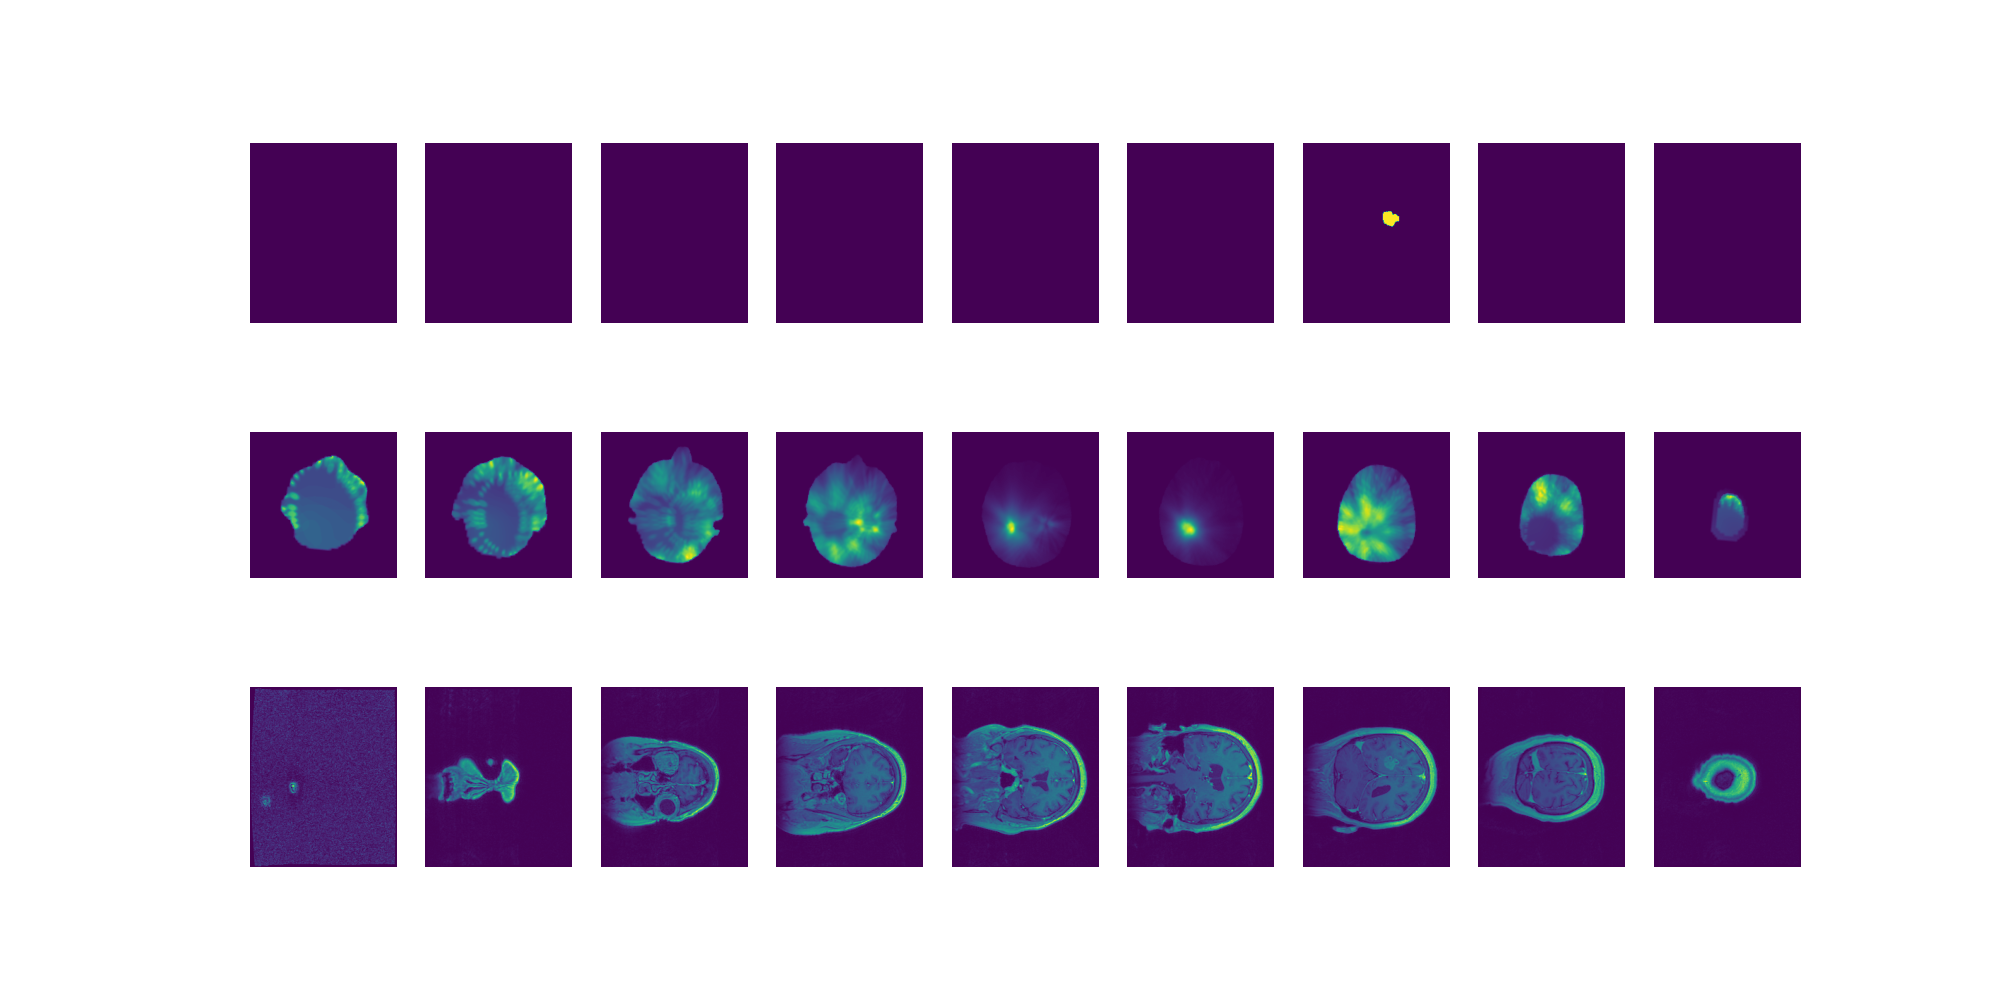
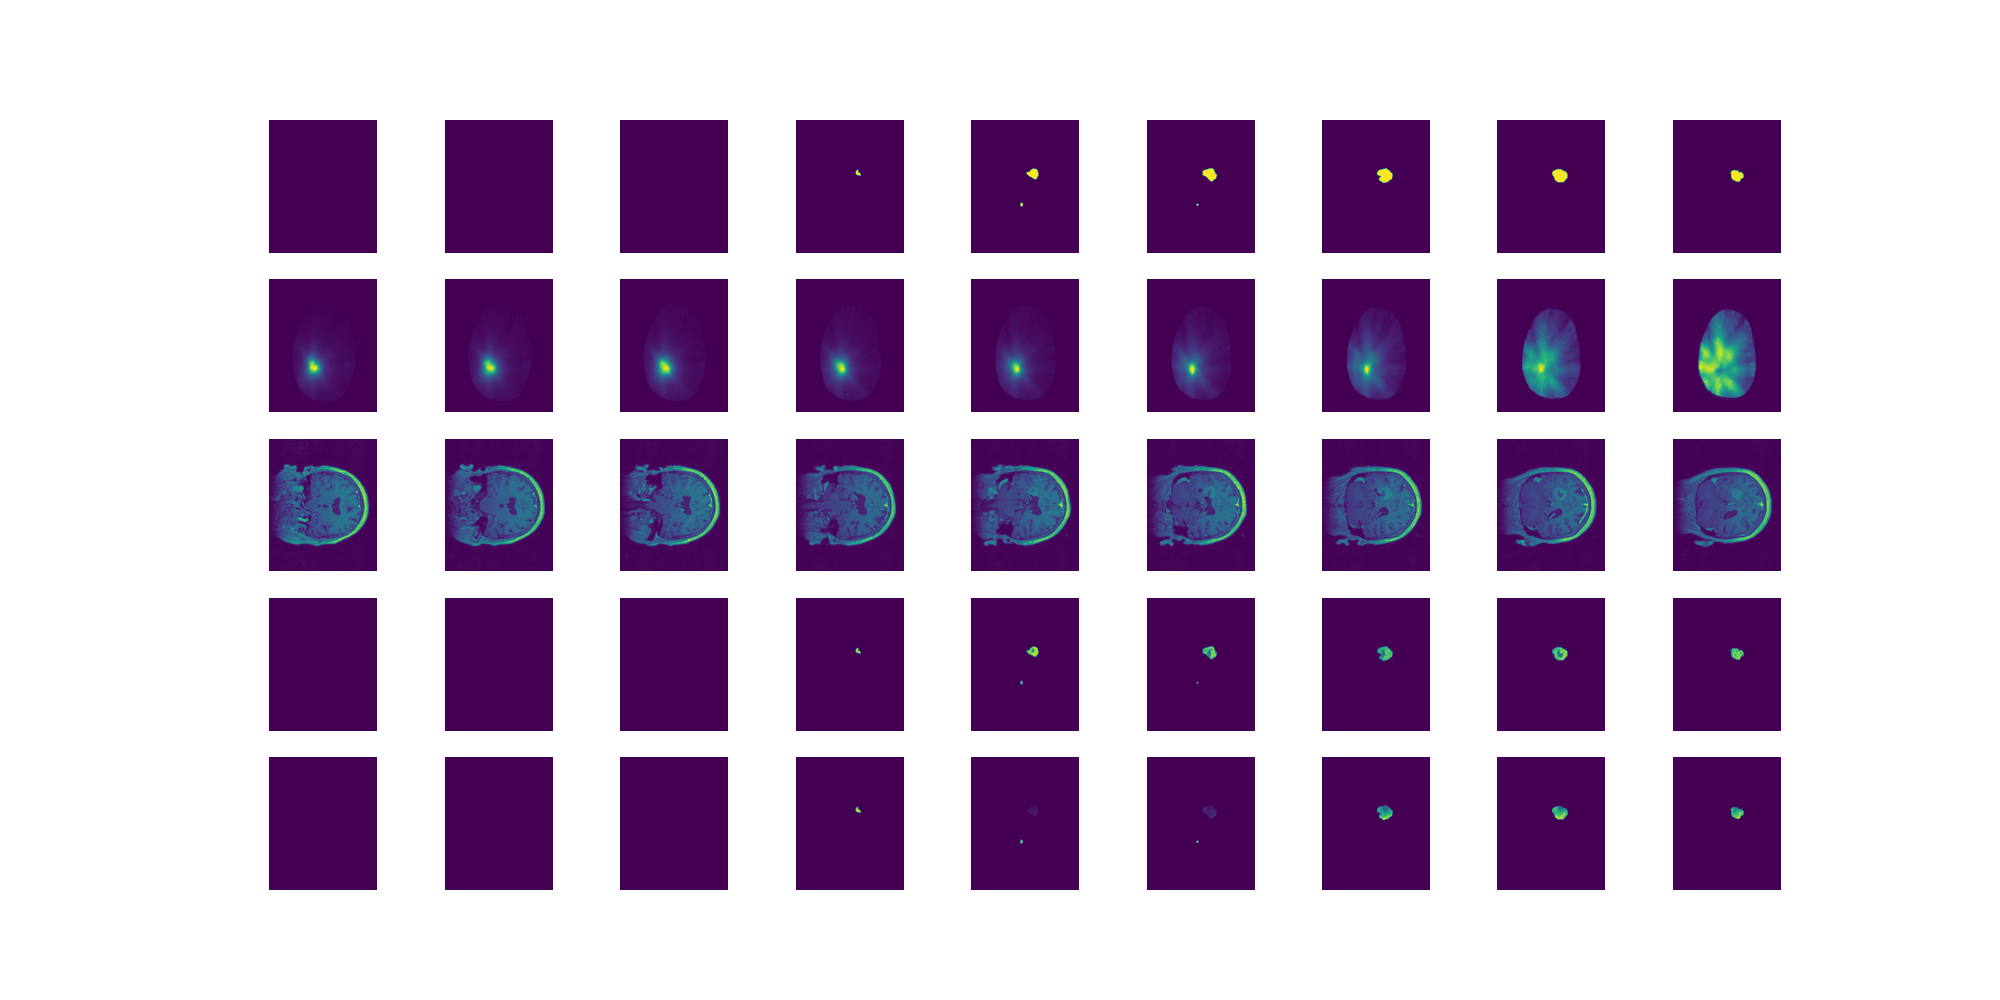
first preprocessing version complete

Changed region(s): [[0.124, 0.093, 0.899, 0.899]]

diff --git a/read_dataset.py b/read_dataset.py
@@ -6,140 +6,104 @@ import pydicom
 from rt_utils import RTStructBuilder
 import logging
 import shutil
-DATA_DIRECTORY = '../descriptive'
+import skimage
+from scipy.ndimage import zoom
+
+
+DATA_DIRECTORY = os.path.join('..', 'descriptive')
 METADATA_PATH = os.path.join(DATA_DIRECTORY, 'metadata.csv')
-OUTPUT = '../data'
+OUTPUT = os.path.join('..', 'data')
 
-logger = logging.getLogger(__name__)
-logger.setLevel(logging.DEBUG)
-console_handler = logging.StreamHandler() 
-logger.addHandler(console_handler)
-
-def resample_rtdose_to_mri(rtdose, mri):
-    dose_grid = rtdose.pixel_array
-    dose_grid_scaling = rtdose.DoseGridScaling
-    dose_origin = rtdose.ImagePositionPatient  # in mm
-    dose_orientation = rtdose.ImageOrientationPatient
-    dose_pixel_spacing = rtdose.PixelSpacing  # in mm/pixel
-    dose_slice_thickness = rtdose.SliceThickness  # in mm
-
-    mri_origin = mri.ImagePositionPatient
-    mri_orientation = mri.ImageOrientationPatient
-    mri_pixel_spacing = mri.PixelSpacing
-    mri_slice_thickness = mri.SliceThickness
-
-    # Construct coordinate arrays for the RTDOSE grid
-    dose_shape = dose_grid.shape
-
-    # ... Construct dose_coords: 3D coordinates of the RTDOSE grid points (x, y, z) ...
-    # (Implementation depends on the specifics of your DICOM files and coordinate systems.
-    # You might need to consider slice orientation, direction cosines, etc.)
-
-    # Calculate the transformation matrix (consider using a specialized library)
-    # ... transform_matrix = calculate_transformation(dose_origin, dose_orientation, dose_pixel_spacing, dose_slice_thickness,
-    #                                                 mri_origin, mri_orientation, mri_pixel_spacing, mri_slice_thickness)
-
-    # Map dose_coords to the MRI space using the transformation matrix
-    mri_coords = transform_matrix @ dose_coords
-
-    # Resample the RTDOSE using interpolation (e.g., linear)
-    resampled_dose = map_coordinates(dose_grid * dose_grid_scaling, mri_coords, order=1, mode='nearest')
-
-    # Reshape the resampled dose to match the MRI shape
-    resampled_dose = resampled_dose.reshape(mri.pixel_array.shape)
-    return resampled_dose
+def handle_MR_RTD(path_MR, path_RTD, dir_name): 
+    #MR dicoms
+    file_names_MR = [os.path.join(path_MR, f) for f in os.listdir(path_MR) if f.endswith('.dcm')]        
+    mr_data = [pydicom.dcmread(p) for p in file_names_MR] 
+    mr_pixel_data = [p.pixel_array for p in mr_data] 
+    
+    RefDs = mr_data[0]
+    
+    # print(f"MR io: {RefDs.ImageOrientationPatient}") 
+    
+    ConstPixelDims = (int(RefDs.Rows), int(RefDs.Columns), len(file_names_MR))
+    ArrayDicom =  np.empty(ConstPixelDims, dtype=RefDs.pixel_array.dtype)
+    for i, pa in enumerate(mr_pixel_data):
+        ArrayDicom[:, :, i] = pa
+    
+    
+    #RTD dicom  
+    file_path_RTD  = [os.path.join(path_RTD, f) for f in os.listdir(path_RTD) if f.endswith('.dcm')][0]
+    rtdose_array = pydicom.dcmread(file_path_RTD).pixel_array
+    
+    # print(f"RTD io: {pydicom.dcmread(file_path_RTD).ImageOrientationPatient}")
+    
+    target_shape = ArrayDicom.shape
+    original_shape = rtdose_array.shape
+    factor = (target_shape[0]/original_shape[0], target_shape[1]/original_shape[1], target_shape[2]/original_shape[2])
+    
+    mapped_dose = zoom(rtdose_array, factor)
+    
+    # print(f"rtdose_data shape: {rtdose_array.shape}") 
+    # print(f"mapped_dose shape: {mapped_dose.shape}")
+    # print(f"array dicom shape: {ArrayDicom.shape}")
+    
+    np.save(os.path.join(OUTPUT, dir_name, f"{dir_name}_RTD.npy"), mapped_dose) 
+    np.save(os.path.join(OUTPUT, dir_name, f"{dir_name}_MR.npy"), ArrayDicom)
+    
+    return (ArrayDicom, mapped_dose)
 
 def save_dcm_to_npy():
     metadata_by_subjectid = pd.read_csv(METADATA_PATH).groupby(['Subject ID'])
+    count = 0
     print("Saving dcm to npy...")
+    print(f"\r0/76", end='')
     for (subject_id, values) in metadata_by_subjectid:
         metadata_by_studyuid = values.groupby(["Study UID"])
-        
         subject_id=subject_id[0]
         for (study_uid, values) in metadata_by_studyuid:
             study_uid = study_uid[0]
             dir_name = f"{subject_id}_{study_uid}"
-            os.mkdir(os.path.join(OUTPUT, dir_name))
-            values.sort_values(by='Modality', inplace=True)
-            series_path = ''
-            for i, r in values.iterrows():
-                path = os.path.join(DATA_DIRECTORY, r['File Location'])
-                #MR IMAGE
-                if r['Modality'] == 'MR':    
-                    series_path = path
-                    save_MR_npy(path, dir_name)
-                #RADIATION DOSE ON LESION
-                elif r['Modality'] == 'RTDOSE' :
-                    save_RTD_npy(path, dir_name)
-                #LESION MARKED
-                elif r['Modality'] == 'RTSTRUCT':
-                    save_RTS_npy(path, dir_name, series_path)
-                else:
-                    logger.debug("This modality shouldn't exist: " + r['Modality'])
+            os.makedirs(os.path.join(OUTPUT, dir_name), exist_ok=True)
+            values.sort_values(by='Study Date', inplace=True)
             
-            crop_lesions(dir_name)      
+            path_MR = os.path.join(DATA_DIRECTORY, values.loc[values["Modality"] == "MR", "File Location"].iloc[0])
+            path_RTD = os.path.join(DATA_DIRECTORY, values.loc[values["Modality"] == "RTDOSE", "File Location"].iloc[0])
+            path_RTS = os.path.join(DATA_DIRECTORY, values.loc[values["Modality"] == "RTSTRUCT", "File Location"].iloc[0])
+                        
+            (MR, RTD) = handle_MR_RTD(path_MR, path_RTD, dir_name)
             
-            print(f"\rsave_dcm_to_npy: {subject_id} done", end='')
+            RTS = handle_RTS_npy(path_RTS, dir_name, path_MR)
+            
+            crop_and_save(MR, RTD, RTS, dir_name)      
+            
+            count +=1
+            
+            print(f"\r{count}/76", end='')
     
     print("\ndone\n")
 
-def save_MR_npy(files_path: str, dir_name:str):
-    list_files_DCM = []
-    for file_name in os.listdir(files_path):
-        if file_name.endswith('.dcm'):
-            list_files_DCM.append(os.path.join(files_path, file_name))
-            RefDs = dicom.read_file(list_files_DCM[0])
-            ConstPixelDims = (int(RefDs.Rows), int(RefDs.Columns), len(list_files_DCM))
-            ArrayDicom = np.zeros(ConstPixelDims, dtype=RefDs.pixel_array.dtype)
-            for filenameDCM in list_files_DCM:
-                ds = dicom.read_file(filenameDCM)
-                ArrayDicom[:, :, list_files_DCM.index(filenameDCM)] = ds.pixel_array
-            np.save(os.path.join(OUTPUT, dir_name, f"{dir_name}_MR.npy"), ArrayDicom)
+def handle_RTS_npy(path_RTS, dir_name, series_path):
+    rt_struct_path = [os.path.join(path_RTS, f) for f in os.listdir(path_RTS) if f.endswith('.dcm')][0]
+    rtstruct = RTStructBuilder.create_from(dicom_series_path=series_path, rt_struct_path=rt_struct_path)
+    names = rtstruct.get_roi_names()
+    masks = []
+    for name in names:
+        if "Skull" not in name: # exclude skull annotations
+            mask_3d = rtstruct.get_roi_mask_by_name(name)
+            masks.append(mask_3d * 1)
+    
+    combined_mask = np.logical_or.reduce(masks).astype(np.uint8)
+    np.save(os.path.join(OUTPUT, dir_name, f"{dir_name}_RTS.npy"), combined_mask)
+    return combined_mask
             
-def save_RTS_npy(file_path:str, dir_name, series_path):
-    for file_name in os.listdir(file_path):
-        if file_name.endswith('.dcm'):
-            rt_struct_path = os.path.join(file_path, file_name)
-            rtstruct = RTStructBuilder.create_from(dicom_series_path=series_path, rt_struct_path=rt_struct_path)
-            names = rtstruct.get_roi_names()
-            masks = []
-            for name in names:
-                if "Skull" not in name: # exclude skull annotations
-                    mask_3d = rtstruct.get_roi_mask_by_name(name)
-                    masks.append(mask_3d * 1)
-            
-            combined_mask = np.logical_or.reduce(masks).astype(np.uint8)                      
-            np.save(os.path.join(OUTPUT, dir_name,  f"{dir_name}_RTS.npy"), combined_mask)
-
-def save_RTD_npy(file_path: str, dir_name):
-    for file_name in os.listdir(file_path):
-        if file_name.endswith('.dcm'):
-            rtdose_struct_path = os.path.join(file_path, file_name) 
-            ds = pydicom.dcmread(rtdose_struct_path)
-
-            dose_grid = ds.pixel_array * ds.DoseGridScaling  # Get dose data with scaling
-            # dose_spacing = [float(x) for x in ds.PixelSpacing] + [float(ds.SliceThickness)]  # X, Y, Z spacing
-            # image_position_patient = ds.ImagePositionPatient  # Optional: Image position
-
-            # *** Step 3: Create a NumPy array ***
-            rtdose_array = np.array(dose_grid)
-
-            # If necessary, reshape the array based on the number of frames:
-            if rtdose_array.ndim == 4:  # Check if there are multiple frames
-                num_frames = ds.NumberOfFrames 
-                rtdose_array = rtdose_array.reshape(num_frames, *rtdose_array.shape[1:])  
-                
-            np.save(os.path.join(OUTPUT, dir_name, f"{dir_name}_RTD.npy"), rtdose_array)
-            
-def crop_lesions(dir_name:str):   
-    MR_path = os.path.join(OUTPUT, dir_name, f"{dir_name}_MR.npy")
-    RTS_path = os.path.join(OUTPUT, dir_name, f"{dir_name}_RTS.npy")
-    MR_arr = np.load(MR_path)
-    LES_mask_arr = np.load(RTS_path)
-    LES_arr = LES_mask_arr * MR_arr
-    LES_arr_cropped = crop_les(LES_arr)
-    np.save(os.path.join(OUTPUT, dir_name, f"{dir_name}_LES.npy"), LES_arr)
-    np.save(os.path.join(OUTPUT, dir_name, f"{dir_name}_LESc.npy"), LES_arr_cropped)
+def crop_and_save(MR, RTD, RTS, dir_name):   
+    MR_les = RTS * MR
+    MR_les_cropped = crop_les(MR_les)
+    RTD_les = RTS * RTD
+    RTD_les_cropped = crop_les(RTD_les)
+    np.save(os.path.join(OUTPUT, dir_name, f"{dir_name}_MR_les.npy"), MR_les)
+    np.save(os.path.join(OUTPUT, dir_name, f"{dir_name}_MR_lesc.npy"), MR_les_cropped)
+    np.save(os.path.join(OUTPUT, dir_name, f"{dir_name}_RTD_les.npy"), RTD_les)
+    np.save(os.path.join(OUTPUT, dir_name, f"{dir_name}_RTD_lesc.npy"), RTD_les_cropped)
 
 def crop_les(d):
     true_points = np.argwhere(d)

diff --git a/display_data.py b/display_data.py
@@ -11,27 +11,45 @@ def display(plt, axes, images, cur_row, c, f_type):
 def display_data(folder_path:str):
     files = [f for f in os.listdir(folder_path)]
     
-    RTD_file = [f for f in files if "RTD" in f][0]
-    MR_file = [f for f in files if "MR" in f][0]
-    RTS_file = [f for f in files if "RTS" in f][1]
+    RTD_file = [f for f in files if f.endswith("RTD.npy")][0]
+    MR_file = [f for f in files if f.endswith("MR.npy")][0]
+    RTS_file = [f for f in files if f.endswith("RTS.npy")][0]
+    MR_les_file = [f for f in files if f.endswith("MR_les.npy")][0]
+    RTD_les_file = [f for f in files if f.endswith("RTD_les.npy")][0]
     
     RTD_array = np.load(os.path.join(folder_path, RTD_file))
     MR_array = np.load(os.path.join(folder_path, MR_file))
     RTS_array = np.load(os.path.join(folder_path, RTS_file))
-    
-    r,c = 3, 9
+    RTD_les_array = np.load(os.path.join(folder_path, RTD_les_file))
+    MR_les_array = np.load(os.path.join(folder_path, MR_les_file))
+    r,c = 5, 9
 
 # Create the figure and subplots
     fig, axes = plt.subplots(nrows=r, ncols=c, figsize=(20,10))
     
-    images = [RTS_array[i] for i in np.linspace(0, RTS_array.shape[0], c+2, dtype=int)[1:-1]]
+    buono = np.nonzero(RTS_array>0)
+    buono = np.hstack([b for b in buono])
+    buono = np.sort(np.unique(buono))
+    print(buono)
+    
+    indexes = np.linspace((np.max(buono)+np.min(buono))//2, np.max(buono), c+2, dtype=int)[1:-1]
+    
+    print(indexes)
+    
+    images = RTS_array[indexes]
     display(plt, axes, images, 0, c, "RTS")
     
-    images = [RTD_array[i] for i in np.linspace(0, RTD_array.shape[0], c+2, dtype=int)[1:-1]]
+    images = RTD_array[indexes]
     display(plt, axes, images, 1, c, "RTD")
     
-    images = [MR_array[i] for i in np.linspace(0, MR_array.shape[0], c+2, dtype=int)[1:-1]]
+    images = MR_array[indexes]
     display(plt, axes, images, 2, c, "MR")
+    
+    images = MR_les_array[indexes]
+    display(plt, axes, images, 3, c, "MR")
+    
+    images = RTD_les_array[indexes]
+    display(plt, axes, images, 4, c, "MR")
     
     os.makedirs(os.path.join(os.curdir, "sample_images"), exist_ok=True)
     name = folder_path.split('\\')[-1]
